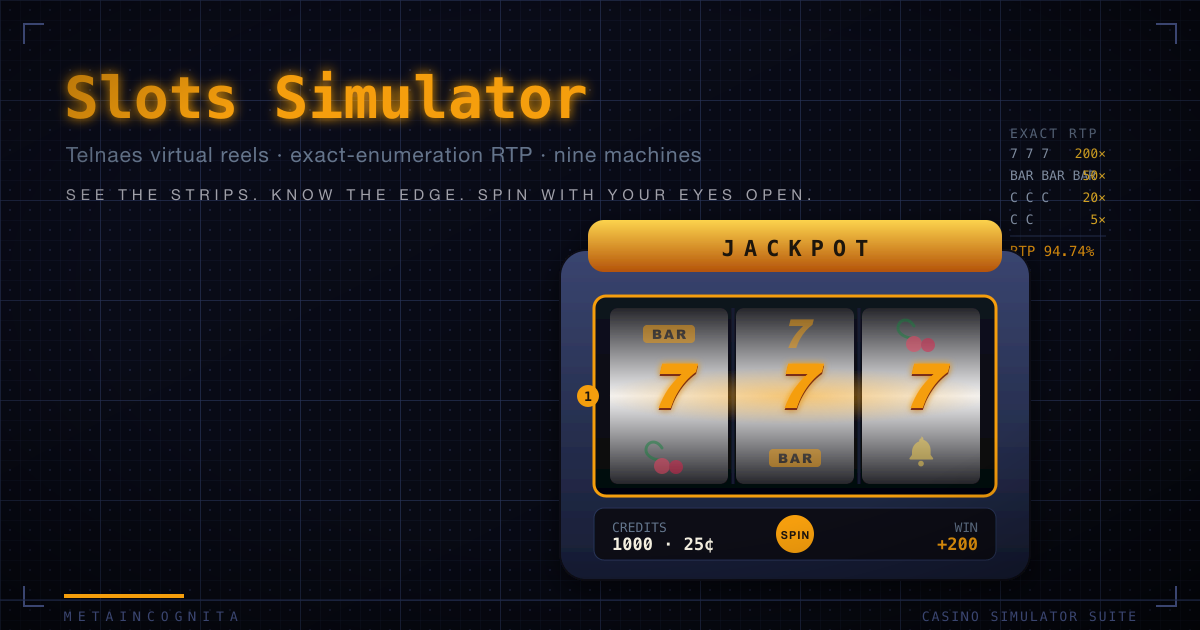
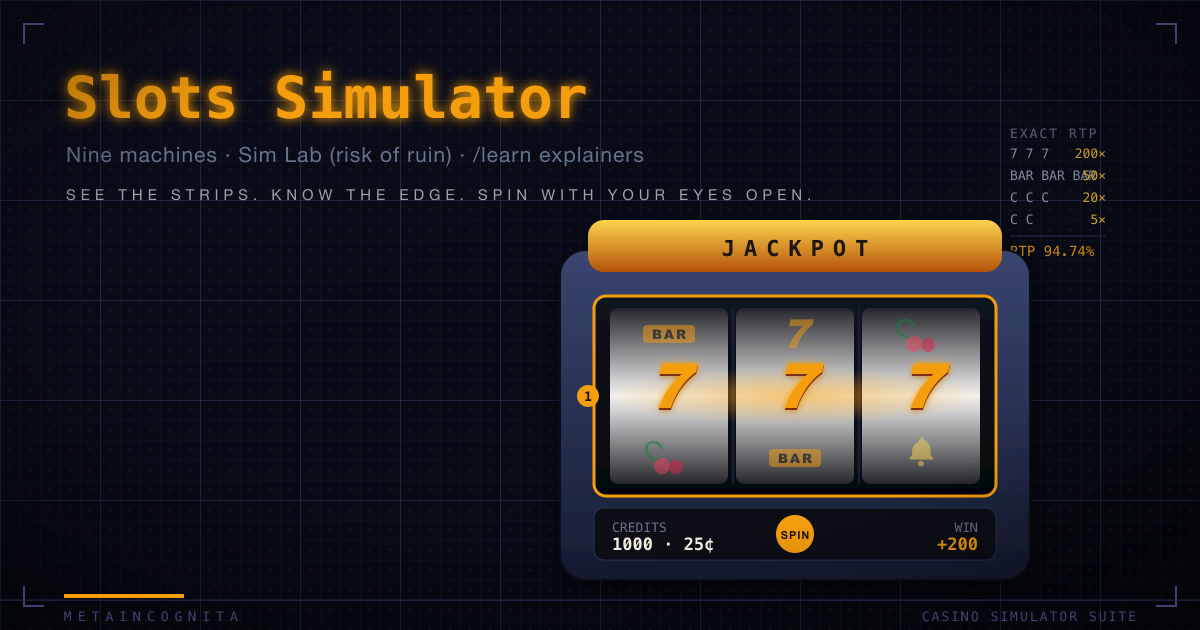
docs: v0.6.0 — Sim Lab, /learn pages, deploy notes
- Bump package.json version 0.5.0 → 0.6.0
- CHANGELOG: 0.6.0 entry (Sim Lab, /learn 4 topic pages, sessions.ts engine
  layer, CSP worker-src, prerender routes, nav Sim Lab/Learn/History, 357 tests)
- README: status line updated; Sim Lab + Learn added to Playing it steps;
  img alt text, Tech section (Web Worker), updated to reflect v0.6.0
- nuxt.config.ts social meta: description/og:description/twitter:description
  now mention Sim Lab (risk of ruin), /learn explainers
- public/og-image.svg: feature tagline updated (nine machines, Sim Lab, /learn)
- public/og-image.png: regenerated from SVG via rsvg-convert

Changed region(s): [[0.0617, 0.2111, 0.5858, 0.2714]]

diff --git a/nuxt.config.ts b/nuxt.config.ts
@@ -18,16 +18,16 @@ export default defineNuxtConfig({
       bodyAttrs: { style: 'background-color: #0a0a0a' },
       title: 'Slots Simulator',
       meta: [
-        { name: 'description', content: 'Educational slot machine simulator — Telnaes virtual reels, reel strips, near-misses, and exact-enumeration RTP, with the math the casino floor never shows.' },
+        { name: 'description', content: 'Educational slot machine simulator — play nine authentic archetypes, run bankroll-risk simulations in the Sim Lab, and explore the math the floor never shows in the /learn section.' },
         { property: 'og:title', content: 'Slots Simulator' },
-        { property: 'og:description', content: 'See the reel strips, the virtual-reel weights, and the exact-enumeration house edge across nine authentic machine archetypes.' },
+        { property: 'og:description', content: 'Nine machines, a Monte-Carlo Sim Lab (risk of ruin, survival curve, drawdown histograms), and /learn explainers on house edge, virtual reels, and hold-and-spin math.' },
         { property: 'og:image', content: '/og-image.png' },
         { property: 'og:image:width', content: '1200' },
         { property: 'og:image:height', content: '630' },
         { property: 'og:type', content: 'website' },
         { name: 'twitter:card', content: 'summary_large_image' },
         { name: 'twitter:title', content: 'Slots Simulator' },
-        { name: 'twitter:description', content: 'See the reel strips, the virtual-reel weights, and the exact-enumeration house edge across nine authentic machine archetypes.' },
+        { name: 'twitter:description', content: 'Nine machines, a Monte-Carlo Sim Lab (risk of ruin, survival curve, drawdown histograms), and /learn explainers on house edge, virtual reels, and hold-and-spin math.' },
         { name: 'twitter:image', content: '/og-image.png' }
       ]
     }

diff --git a/CHANGELOG.md b/CHANGELOG.md
@@ -3,6 +3,40 @@
 All notable changes to this project will be documented in this file.
 Format: [Keep a Changelog](https://keepachangelog.com/en/1.1.0/).
 
+## [0.6.0] - 2026-06-14
+
+### Added
+- Sim Lab (`/sim-lab`, top-level nav): risk/bankroll Monte-Carlo lab. Runs
+  thousands of sessions against any of the nine machines in a Web Worker (UI
+  stays responsive; live progress bar + cancel returning partial results). Each
+  session plays from a starting bankroll at a fixed bet until bust or a spin
+  cap. Headline stats: risk of ruin, median/mean ending bankroll, % ended
+  ahead, avg session length, avg max drawdown, empirical RTP, house edge. Four
+  inline-SVG charts: survival curve, ending-bankroll histogram, sample session
+  trajectories, max-drawdown histogram.
+- Learn section (`/learn` index + four topic pages, top-level nav): layered
+  "intuition + one live number, then a collapsible rigorous derivation with
+  live tables" explainers, all driven by live machine data.
+  - **House edge** — floor-wide RTP/house-edge table via `exactRtp()`.
+  - **Telnaes virtual reels** — virtual vs physical reel weight mechanics; the
+    combined 3-reel jackpot squeeze (~1 in 31,104 virtual vs 1 in 10,648
+    physical on Diamond Doubler).
+  - **Hold-and-spin** — Ruby of Gargoyle respin-reset as an absorbing Markov
+    chain (P(fill)=2.35%, E[final]=10.19 cells).
+  - **Gargoyle's Eye** — the additive ×N multiplier gem: ×2.5 expected added
+    multiplier; additive ×5 vs multiplicative ×6.
+- Engine: `app/engine/sessions.ts` — `simulateSession`, `aggregateSessions`,
+  `createSimLabRun` reuse the existing per-spin primitives (`spin`,
+  `nextSpinCost`, `initMachineState`); `simulateMachine` is untouched.
+- Deploy: CSP extended with `worker-src 'self'`; `/sim-lab` and all `/learn/*`
+  routes added to `nitro.prerender.routes`; worker verified loading under the
+  production CSP (no blob URL, no CSP violation).
+
+### Changed
+- Nav is now **Sim Lab / Learn / History** (was History only).
+- Test suite: 357 tests (was 325 at v0.5.0).
+- Social meta descriptions updated to reflect Sim Lab and /learn capabilities.
+
 ## [0.5.0] - 2026-06-14
 
 ### Added

diff --git a/README.md b/README.md
@@ -1,5 +1,5 @@
 <p align="center">
-  <img src="public/og-image.png" alt="Slots Simulator — Telnaes virtual reels, exact-enumeration RTP, and the math the floor never shows" width="800">
+  <img src="public/og-image.png" alt="Slots Simulator — nine machines, Monte-Carlo Sim Lab, /learn explainers, and the math the floor never shows" width="800">
 </p>
 
 # Metaincognita Slots
@@ -10,9 +10,9 @@ machine archetypes, then see exactly what the casino never shows you: the
 reel strips, the Telnaes virtual-reel weights, the engineered near-misses,
 and the precise mathematics of the house edge.
 
-**Status: playable UI milestone.** The floor is open: nine machines, full game
-surfaces, X-ray mode, PAR sheets, and session history. The Sim Lab and
-learn pages land in a subsequent milestone.
+**Status: v0.6.0.** The floor is open: nine machines, full game surfaces,
+X-ray mode, PAR sheets, session history, a Monte-Carlo Sim Lab, and /learn
+explainers on the math the floor never shows.
 
 ## Playing it
 
@@ -31,7 +31,15 @@ pnpm dev        # open http://localhost:3000
    variance.
 4. **Pachislo keys** — on Stock Rush press **1/2/3** to stop reels manually;
    the slip (≤ 4 stops) is visible in X-ray.
-5. Everything persists in **localStorage** — reload mid-feature and your
+5. **Sim Lab** — run thousands of bankroll sessions against any machine in a
+   Web Worker (live progress, cancel mid-run). Outputs risk of ruin, median/mean
+   ending bankroll, survival curve, drawdown histogram, sample trajectories, and
+   empirical RTP.
+6. **Learn** — four explainer pages covering house edge (live floor-wide table),
+   Telnaes virtual-reel mechanics, hold-and-spin as an absorbing Markov chain,
+   and the Gargoyle's Eye additive multiplier. Each page layers intuition first,
+   then a collapsible rigorous derivation with live numbers.
+7. Everything persists in **localStorage** — reload mid-feature and your
    free spins are still waiting exactly where you left them.
 
 This is an educational simulator. No real money is involved.
@@ -134,8 +142,9 @@ stock-rush              3     91.5013%    92.3172%     0.8159%    21.2341%    21
 ## Tech
 
 Nuxt 4 SPA (ssr:false) - TypeScript strict - @nuxt/ui + Tailwind 4 -
-Pinia - Vitest - pnpm. The engine (`app/engine/`) is pure TypeScript with
-no framework imports; machines (`app/machines/`) are pure data.
+Pinia - Vitest - Web Worker (Sim Lab) - pnpm. The engine (`app/engine/`) is
+pure TypeScript with no framework imports; machines (`app/machines/`) are
+pure data.
 
 ## Sources
 